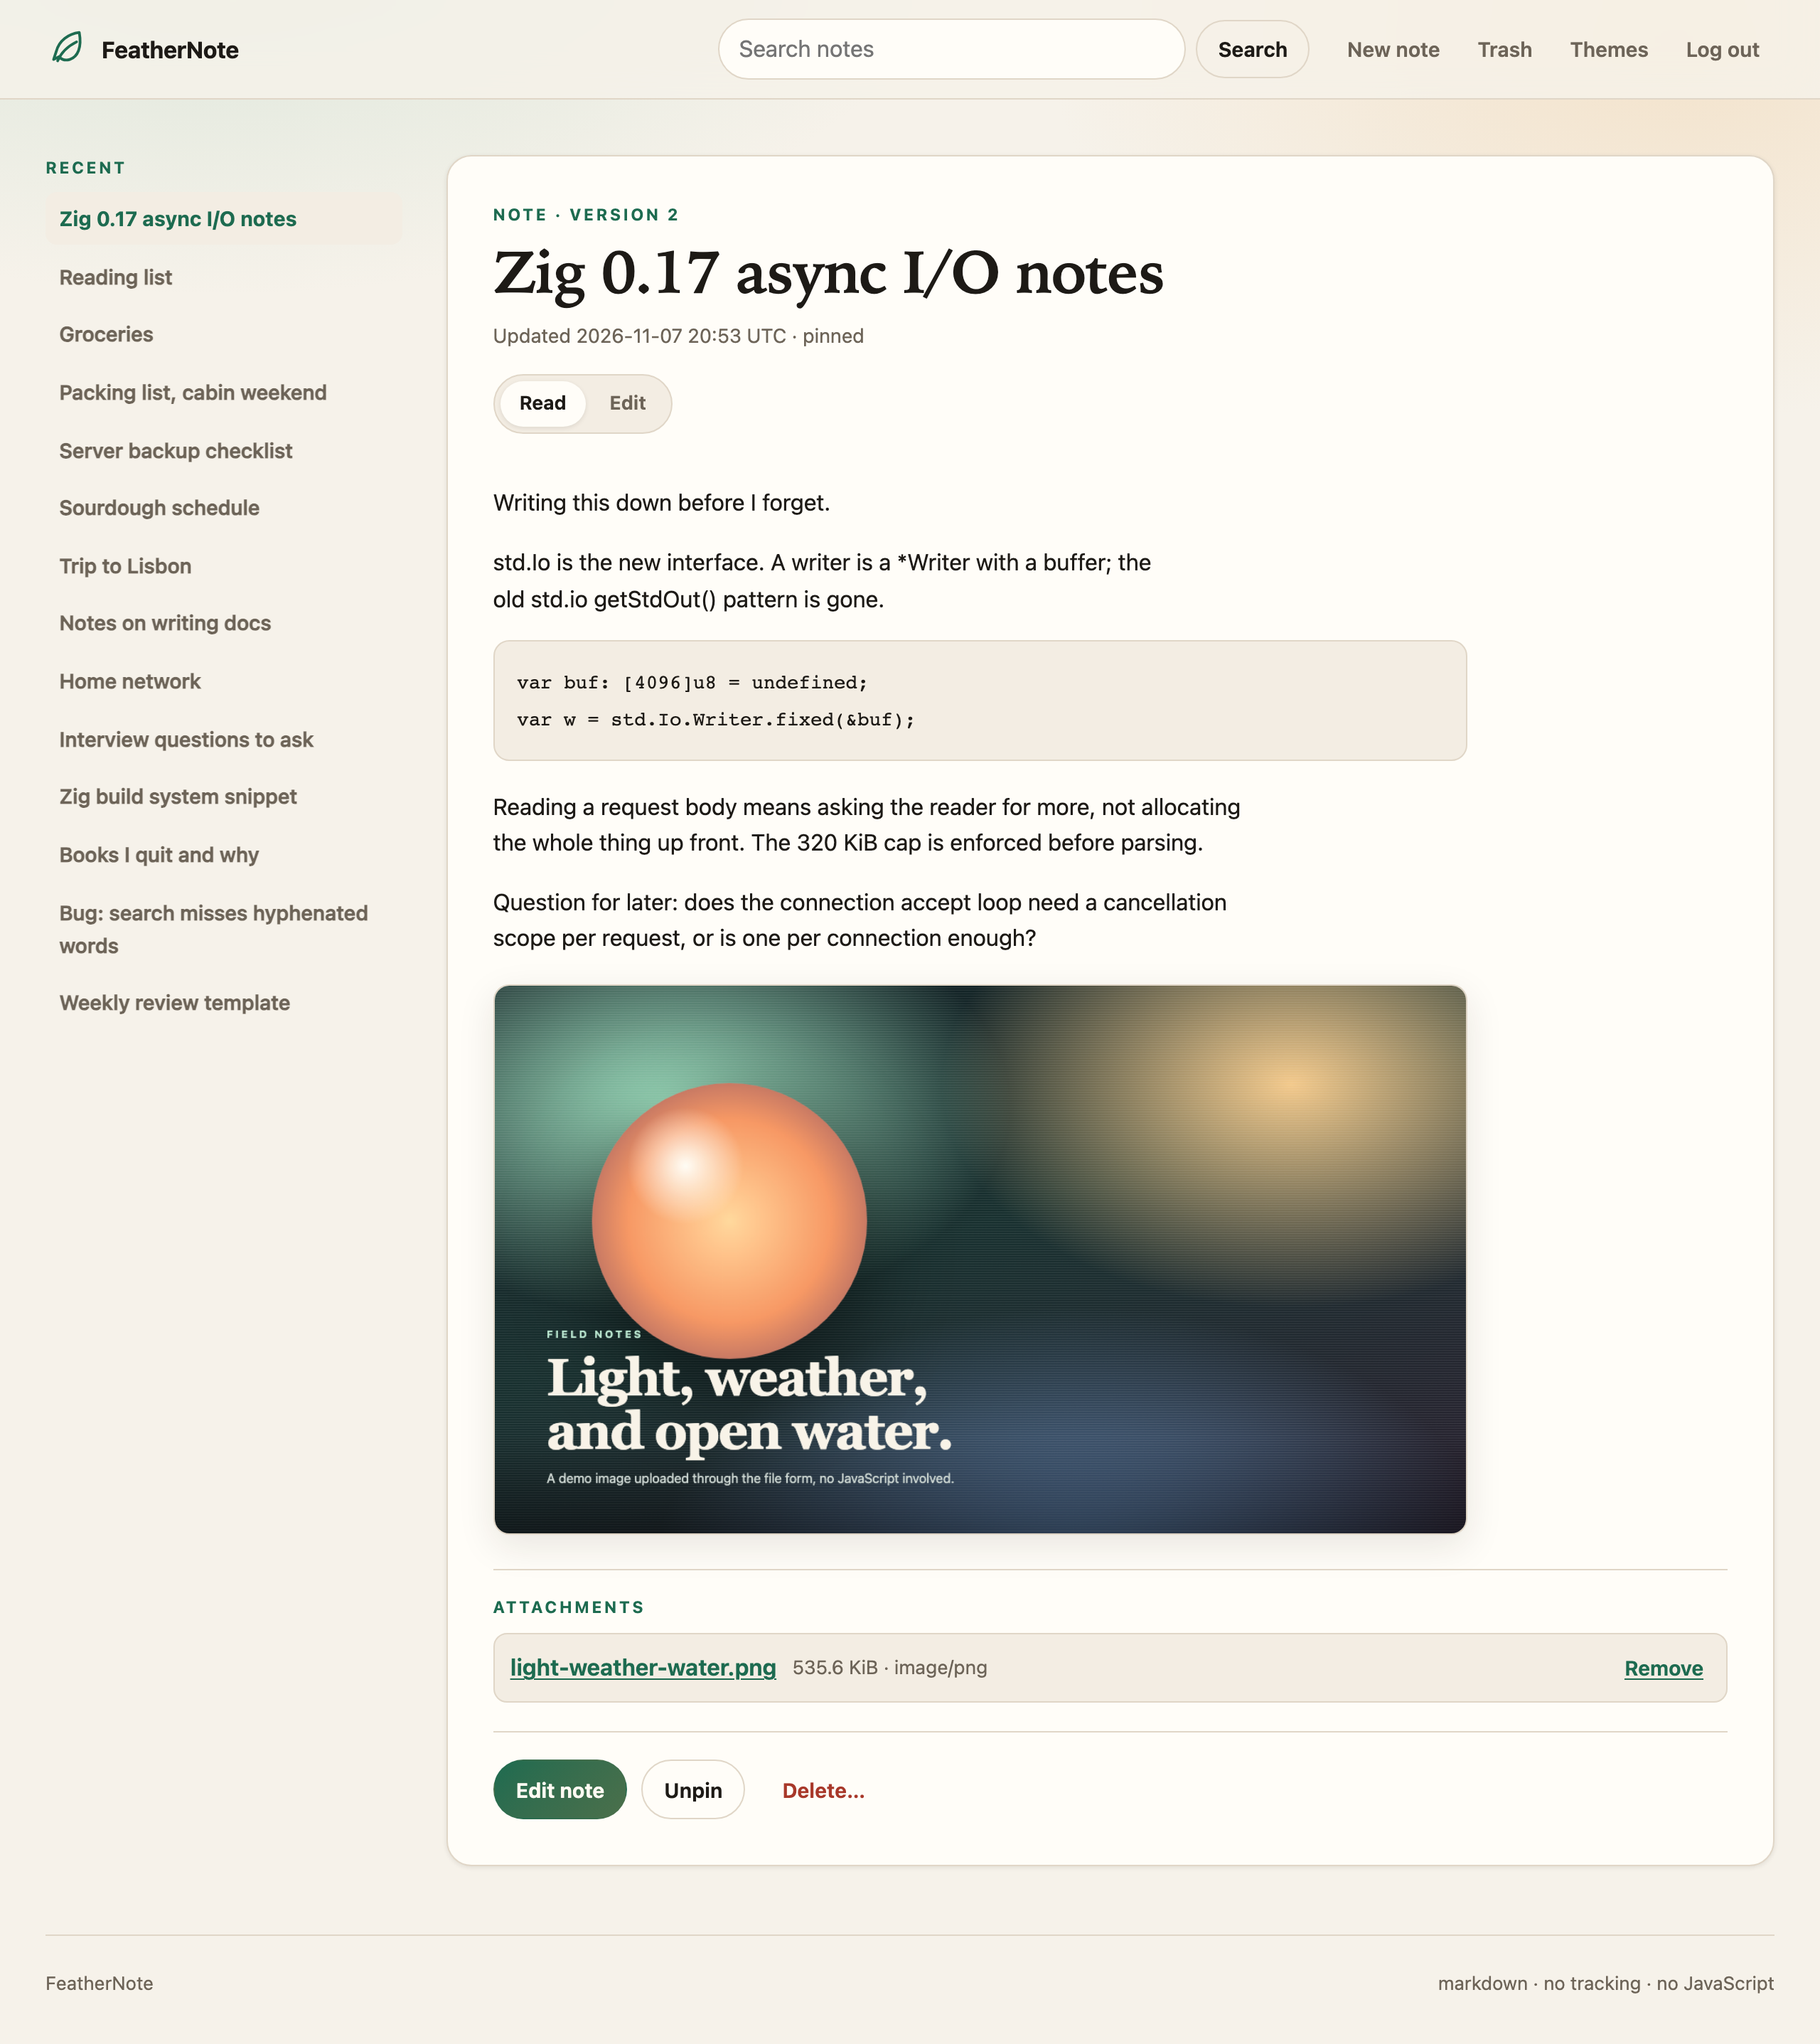
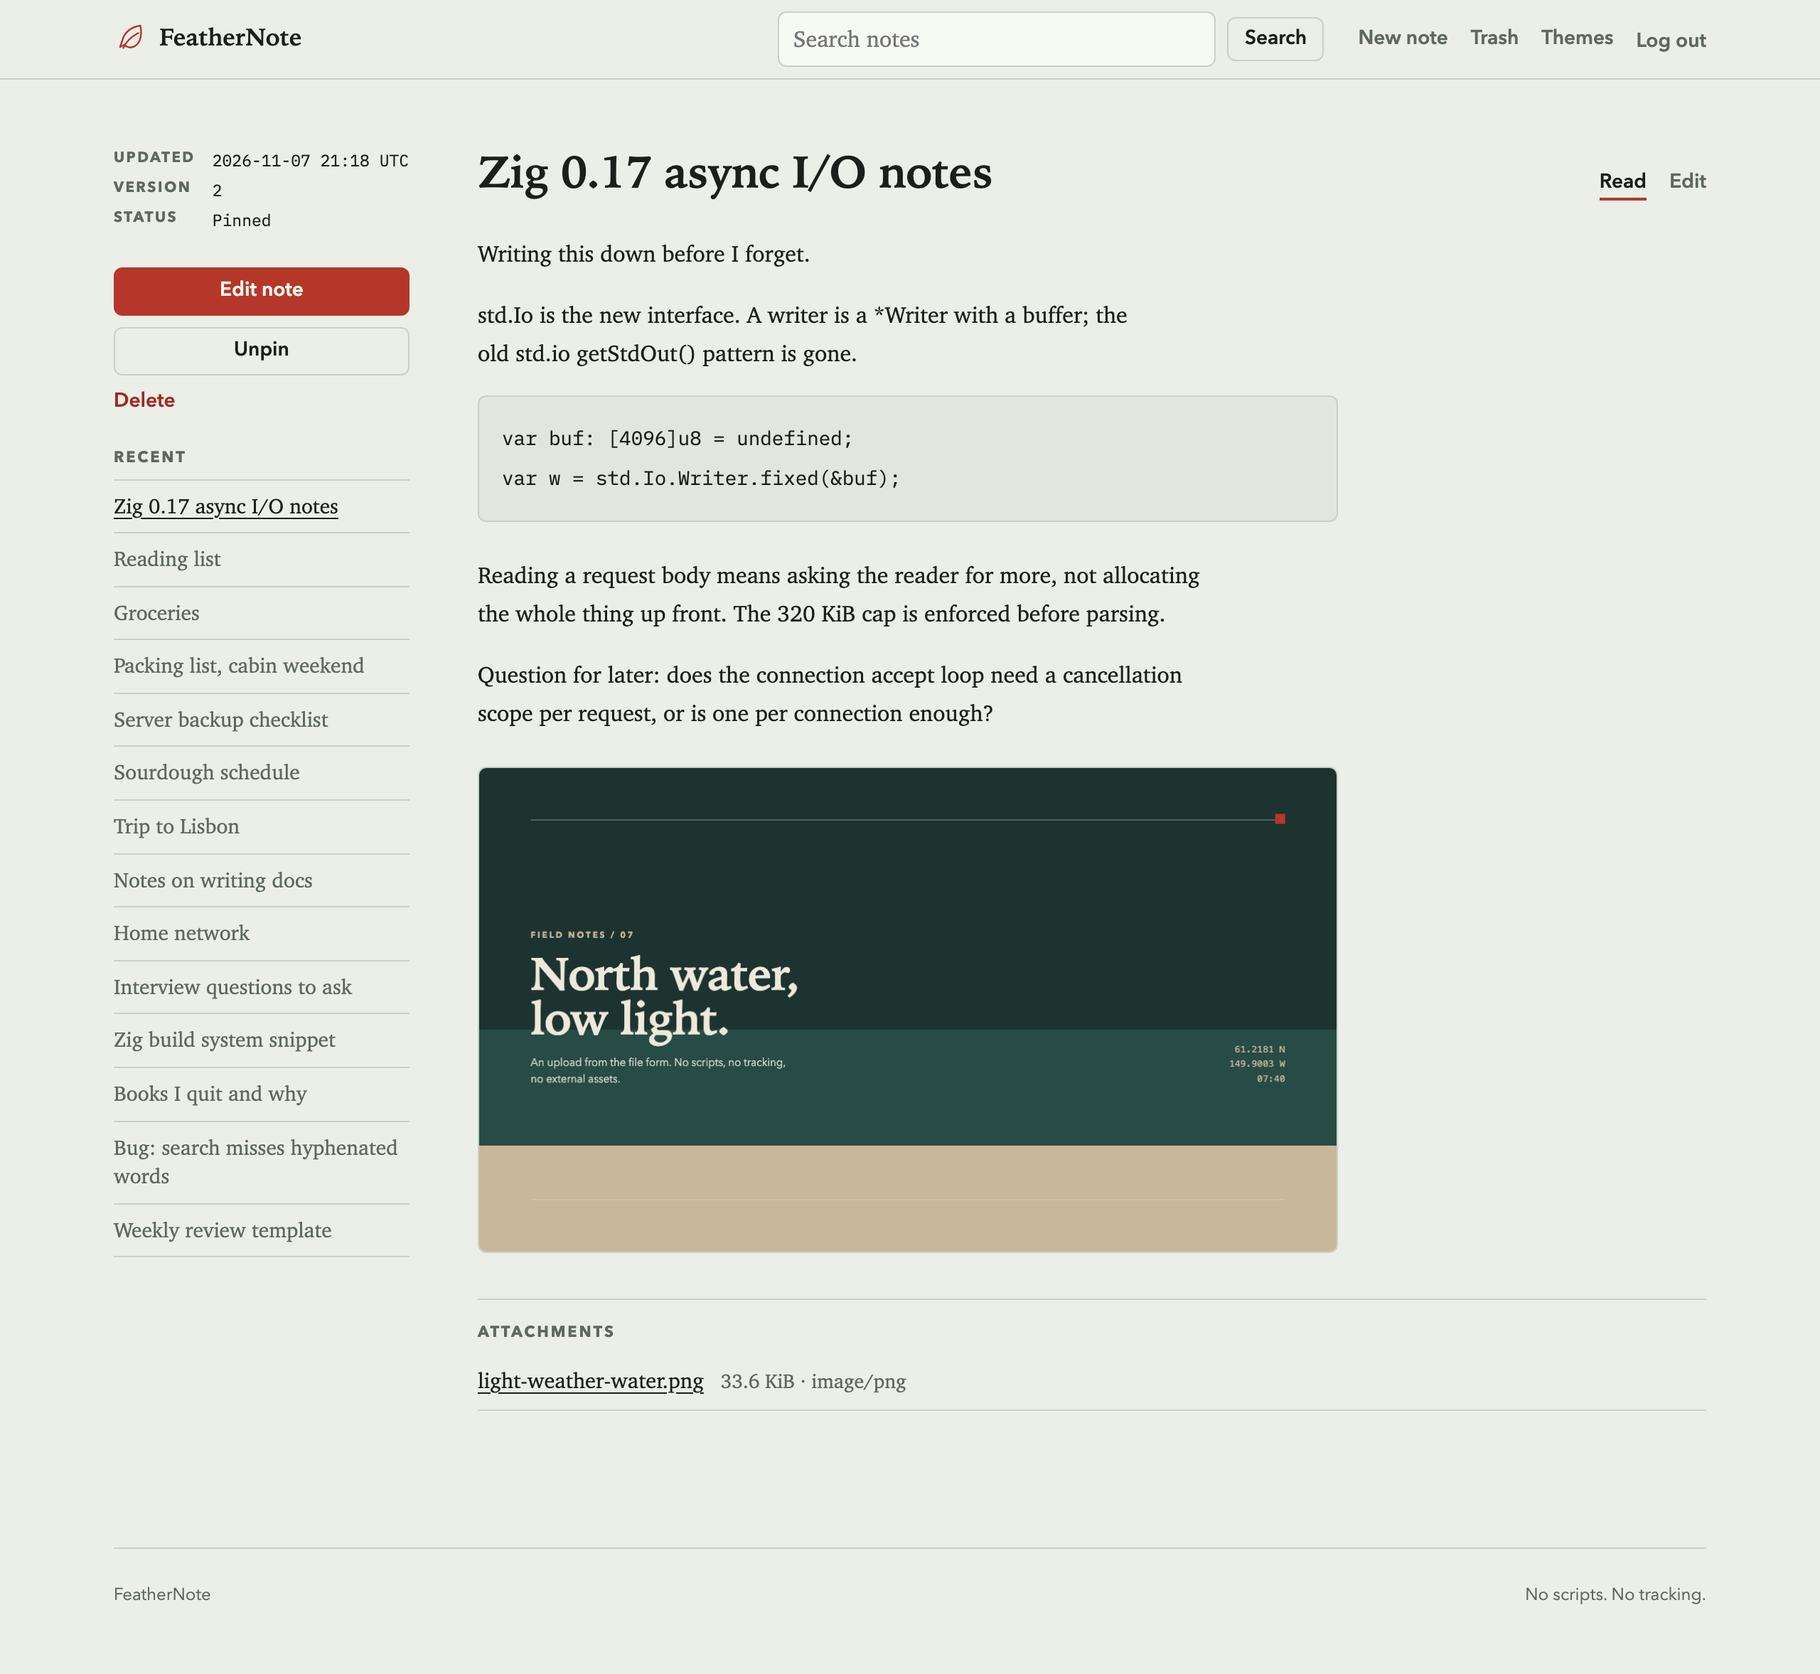
Refresh screenshots and docs for the editorial ledger design
Recapture every screenshot with JavaScript disabled, regenerate the
attachment demo image as a flat editorial composition, and document the
new design system, theme names, and 23 KB stylesheet in the README and
benchmark report.

diff --git a/scripts/capture-screenshots.js b/scripts/capture-screenshots.js
@@ -46,28 +46,25 @@ async function makeDemoImage(browser) {
   const page = await browser.newPage({ viewport: { width: 1200, height: 675 } });
   await page.setContent(`<!doctype html><style>
     html,body{margin:0;height:100%}
-    .art{width:1200px;height:675px;position:relative;overflow:hidden;
-      background:
-        radial-gradient(680px 420px at 18% 22%, #9fe3c1 0%, transparent 62%),
-        radial-gradient(720px 460px at 82% 18%, #f3c98b 0%, transparent 60%),
-        radial-gradient(820px 520px at 60% 108%, #587da8 0%, transparent 64%),
-        linear-gradient(160deg,#101b20 0%,#18302f 46%,#2a2130 100%);
-      color:#f8f3e8;font-family:Georgia,serif}
-    .grain{position:absolute;inset:0;opacity:.09;
-      background-image:repeating-linear-gradient(0deg,#fff 0 1px,transparent 1px 3px)}
-    .orb{position:absolute;width:340px;height:340px;border-radius:50%;
-      left:120px;top:120px;background:radial-gradient(circle at 34% 30%,#fffdf6,transparent 22%),
-      radial-gradient(circle,#ffd9a3 0%,#f09a6b 52%,#7c4a62 100%);
-      box-shadow:0 40px 120px rgba(0,0,0,.55);filter:saturate(1.1)}
-    .line{position:absolute;left:0;right:0;bottom:0;height:120px;
-      background:linear-gradient(180deg,transparent,rgba(0,0,0,.45))}
-    .copy{position:absolute;left:64px;bottom:56px;z-index:2}
-    .eyebrow{font:700 13px/1 ui-sans-serif,system-ui;letter-spacing:.24em;text-transform:uppercase;color:#b9e6cf}
-    h1{font-size:64px;line-height:1.02;margin:14px 0 0;letter-spacing:-.03em;max-width:12ch}
-    p{font:16px/1.5 ui-sans-serif,system-ui;color:#cfd9d4;margin:14px 0 0}
-  </style><div class="art"><div class="grain"></div><div class="orb"></div><div class="line"></div>
-  <div class="copy"><div class="eyebrow">Field notes</div><h1>Light, weather, and open water.</h1>
-  <p>A demo image uploaded through the file form, no JavaScript involved.</p></div></div>`);
+    .art{width:1200px;height:675px;position:relative;overflow:hidden;background:#14211f;color:#efe9dc;
+      font-family:"Iowan Old Style",Palatino,Georgia,serif}
+    .sky{position:absolute;inset:0 0 46% 0;background:#1c3330}
+    .sea{position:absolute;inset:54% 0 22% 0;background:#274b45}
+    .shore{position:absolute;inset:78% 0 0 0;background:#c9b79a}
+    .rule{position:absolute;left:72px;right:72px;top:72px;height:1px;background:#efe9dc;opacity:.5}
+    .rule2{position:absolute;left:72px;right:72px;bottom:72px;height:1px;background:#efe9dc;opacity:.35}
+    .mark{position:absolute;right:72px;top:64px;width:14px;height:14px;background:#b4372a}
+    .copy{position:absolute;left:72px;bottom:230px}
+    .kicker{font:700 12px/1 "Avenir Next",Avenir,sans-serif;letter-spacing:.22em;text-transform:uppercase;color:#c9b79a}
+    h1{font-size:64px;line-height:.98;margin:18px 0 0;letter-spacing:-.02em;max-width:11ch}
+    p{font:15px/1.5 "Avenir Next",Avenir,sans-serif;color:#cfd6cd;margin:18px 0 0;max-width:42ch}
+    .coord{position:absolute;right:72px;bottom:230px;text-align:right;
+      font:400 13px/1.6 "SF Mono",Menlo,monospace;color:#c9b79a}
+  </style><div class="art"><div class="sky"></div><div class="sea"></div><div class="shore"></div>
+  <div class="rule"></div><div class="rule2"></div><div class="mark"></div>
+  <div class="copy"><div class="kicker">Field notes / 07</div><h1>North water, low light.</h1>
+  <p>An upload from the file form. No scripts, no tracking, no external assets.</p></div>
+  <div class="coord">61.2181 N<br>149.9003 W<br>07:40</div></div>`);
   await page.screenshot({ path: file, clip: { x: 0, y: 0, width: 1200, height: 675 } });
   await page.close();
   return file;
@@ -97,7 +94,7 @@ async function makeDemoImage(browser) {
 
   // 3. Read view with Markdown
   await page.click('text=Zig 0.17 async I/O notes');
-  await page.waitForSelector('article.reader');
+  await page.waitForSelector('.prose');
   await page.waitForTimeout(900);
   await shotFit(page, 'note-read.png');
 
@@ -118,7 +115,7 @@ async function makeDemoImage(browser) {
   await page.waitForURL('**/edit?uploaded=1');
   await page.waitForTimeout(900);
   await page.click('a.tab:has-text("Read")');
-  await page.waitForSelector('article.reader');
+  await page.waitForSelector('.prose');
   await page.waitForTimeout(900);
   await shotFit(page, 'note-with-image.png');
 
@@ -154,7 +151,7 @@ async function makeDemoImage(browser) {
 
   // 11. Edit conflict, while in the dark theme.
   await page.click('text=Trip to Lisbon');
-  await page.waitForSelector('article.reader');
+  await page.waitForSelector('.prose');
   await page.click('a.tab:has-text("Edit")');
   await page.waitForSelector('#body');
   const noteUrl = page.url().replace('/edit', '');
@@ -171,13 +168,13 @@ async function makeDemoImage(browser) {
   });
   await page.fill('#body', 'Flights booked, 14-21 March.\n\nPlanning notes from this tab, which is now stale.');
   await page.click('.editor-form button[type=submit]');
-  await page.waitForSelector('text=Your draft (not saved)');
+  await page.waitForSelector('.diff-grid');
   await page.waitForTimeout(600);
   await shotFit(page, 'conflict.png');
 
   // 12. Restore the default theme for the next run.
   await page.goto(BASE + '/settings', { waitUntil: 'load' });
-  await page.click('label.theme-card:has(input[value=feather])');
+  await page.click('label.theme-card:has(input[value=paper])');
   await page.click('form.theme-form button[type=submit]');
   await page.waitForURL('**/settings?saved=1');
 

diff --git a/README.md b/README.md
@@ -180,6 +180,12 @@ Flags override environment values. The full list is available with
   row. Every page emits it as `data-theme`, and one embedded stylesheet carries
   all twelve palettes. Swapping themes costs one form post and one cached
   stylesheet.
+- **One design system.** The editorial ledger direction, tokens, type, and
+  motion rules live in [`DESIGN.md`](DESIGN.md). The default palette is cool
+  paper with a vermilion accent; the index is ruled, not a card grid.
+- **CSS-only page transitions.** Cross-document View Transitions animate page
+  changes with transform and opacity, leaving the header fixed. Nothing is
+  scripted, and reduced-motion turns it off.
 - **CSRF on every authenticated mutation**, including logout, theme changes,
   uploads, and file deletion. Login is rate limited and runs a full Argon2id
   verification.
@@ -266,7 +272,7 @@ Benchmarks are measured, not estimated. On the recorded Debian 13 machine
 Commands, percentiles, machine details, and the items that remain UNVERIFIED
 are in [`reports/benchmarks.md`](reports/benchmarks.md), with raw JSON in
 [`reports/benchmarks-raw.json`](reports/benchmarks-raw.json). These numbers are
-from one machine and are not a universal claim. The stylesheet is now 22.8 KiB
+from one machine and are not a universal claim. The stylesheet is now 22.5 KiB
 because it carries twelve palettes; the original 3 KiB figure applied to the
 single-theme P0 UI and is recorded in the report.
 
@@ -303,11 +309,12 @@ FEATHERNOTE_PASSWORD='demo password' \
 ```
 
 The demo password above and the default in the script are for throwaway local
-data only. The script leaves the instance on the Feather theme.
+data only. The script leaves the instance on the Paper theme.
 
 ## Repository layout
 
 ```
+DESIGN.md       design system, tokens, motion rules, and slop audit
 src/            server, routes, SQLite layer, auth, HTML views
 src/markdown.zig  safe Markdown renderer
 src/multipart.zig bounded multipart/form-data parser

diff --git a/reports/benchmarks.md b/reports/benchmarks.md
@@ -50,7 +50,7 @@ All latencies are milliseconds, loopback, 1 KiB note bodies.
 | Idle PSS | reported | 4.64 MiB (4751 KiB) | 5.11 MiB (5237 KiB) | **PASS** |
 | Peak RSS (Argon2id login included) | separately recorded | 23.1 MiB (23688 KiB) | 23.4 MiB (23968 KiB) | **PASS, separate from idle** |
 | Peak RSS after 256 KiB note | separately recorded | 23.1 MiB | 23.4 MiB | **PASS** |
-| CSS | single embedded, cached stylesheet | 22,764 B (12 themes) | 22,764 B | **PASS, revised scope** |
+| CSS | single embedded, cached stylesheet | 23,085 B (12 themes) | 23,085 B | **PASS, revised scope** |
 | Mandatory JavaScript | 0 B | 0 B | 0 B | **PASS** |
 | List HTML at 50 rows, excluding note content | <= 15 KiB | 8,914 B | 9,143 B | **PASS** |
 | Warm GET note p95 | <= 15 ms | 3.20 ms | 1.09 ms | **PASS** |
@@ -63,7 +63,7 @@ All latencies are milliseconds, loopback, 1 KiB note bodies.
 
 The original 3 KiB CSS budget covered the single-theme P0 UI. The product
 later added twelve themes at the owner's request, so the stylesheet is now
-22,764 B. It remains one embedded, cacheable response rather than twelve
+23,085 B. It remains one embedded, cacheable response rather than twelve
 downloads, and no per-page CSS cost was added.
 
 ### Detailed percentiles

diff --git a/docs/DECISIONS.md b/docs/DECISIONS.md
@@ -60,7 +60,7 @@ Admin commands print status and errors with `std.debug.print` (stderr). Tests ac
 
 ## D015 — Themes are server-side owner state, not a cookie or script
 
-The selected theme is a validated id stored on the single owner row and emitted as `data-theme` on `<html>`. One embedded stylesheet carries all twelve palettes. Switching is a CSRF-protected form post. This keeps the choice consistent across devices, includes it in backups, and avoids a theme-flash cookie or any client script. The CSS grew from 3 KiB to about 22 KiB; it is still a single embedded, cacheable request with no per-navigation cost.
+The selected theme is a validated id stored on the single owner row and emitted as `data-theme` on `<html>`. One embedded stylesheet carries all twelve palettes. Switching is a CSRF-protected form post. This keeps the choice consistent across devices, includes it in backups, and avoids a theme-flash cookie or any client script. The CSS grew from 3 KiB to about 23 KiB; it is still a single embedded, cacheable request with no per-navigation cost.
 
 ## D016 — Markdown is a safe, bounded subset rendered on the server
 
